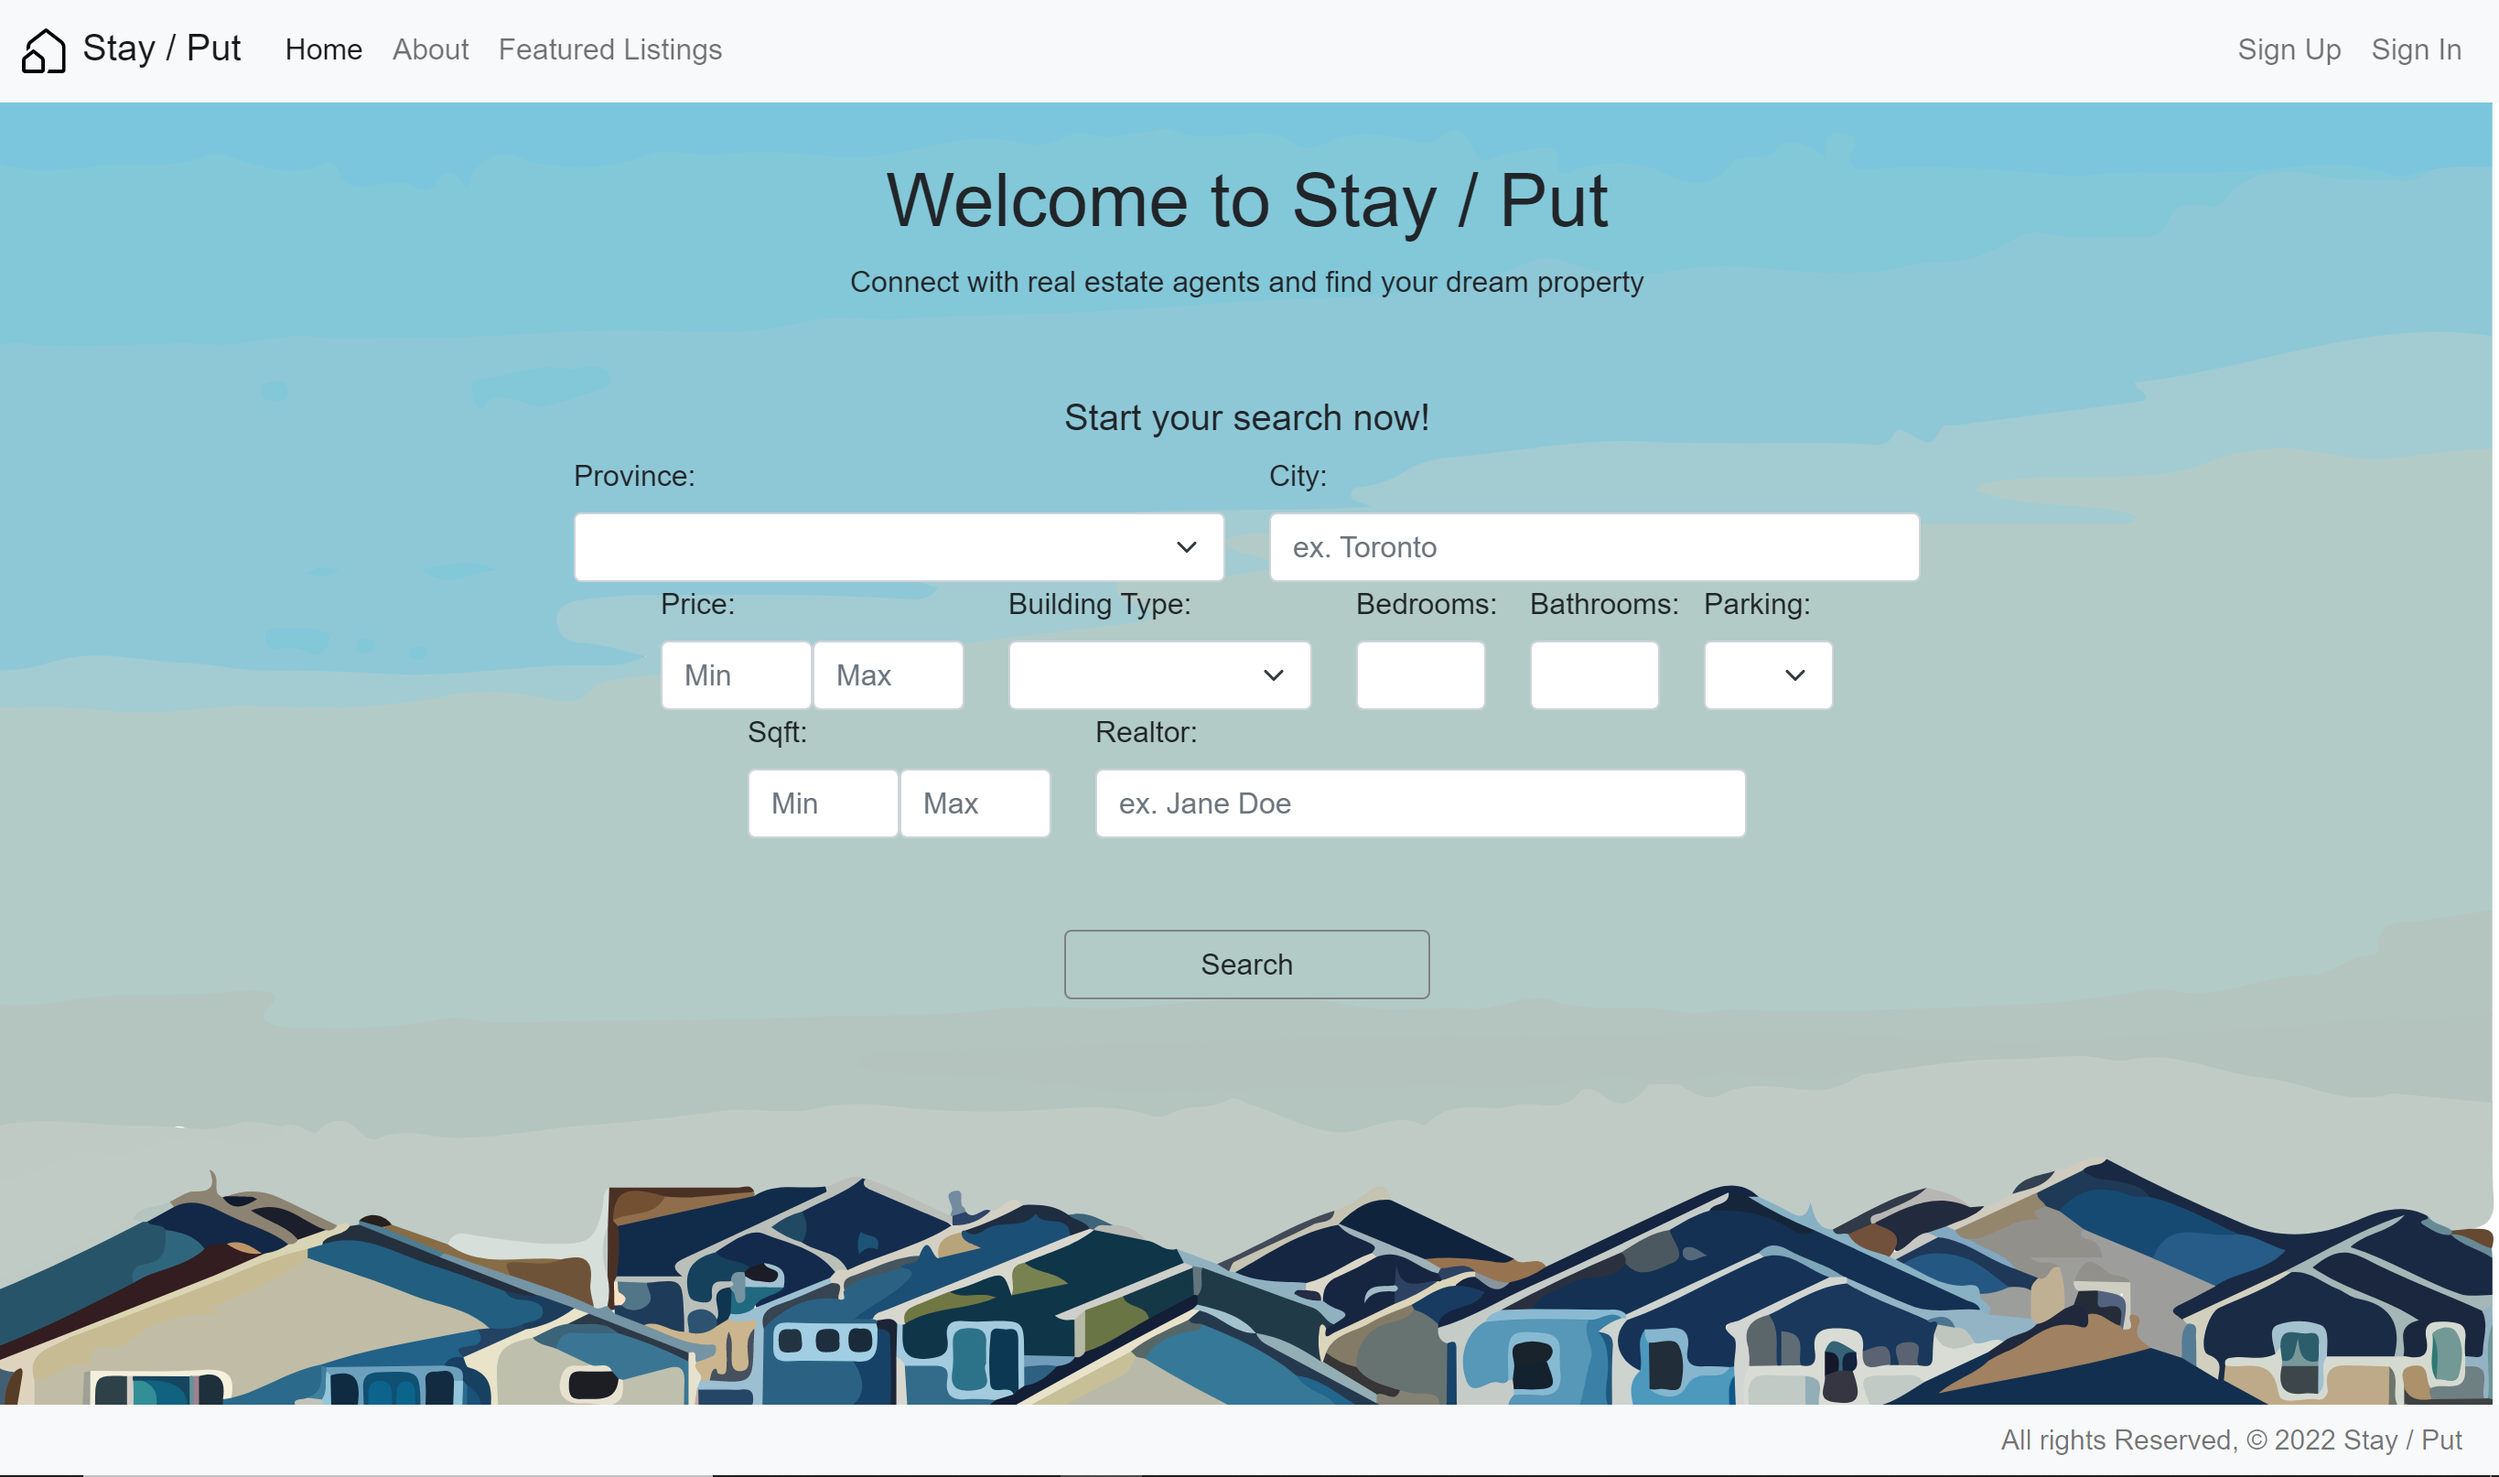
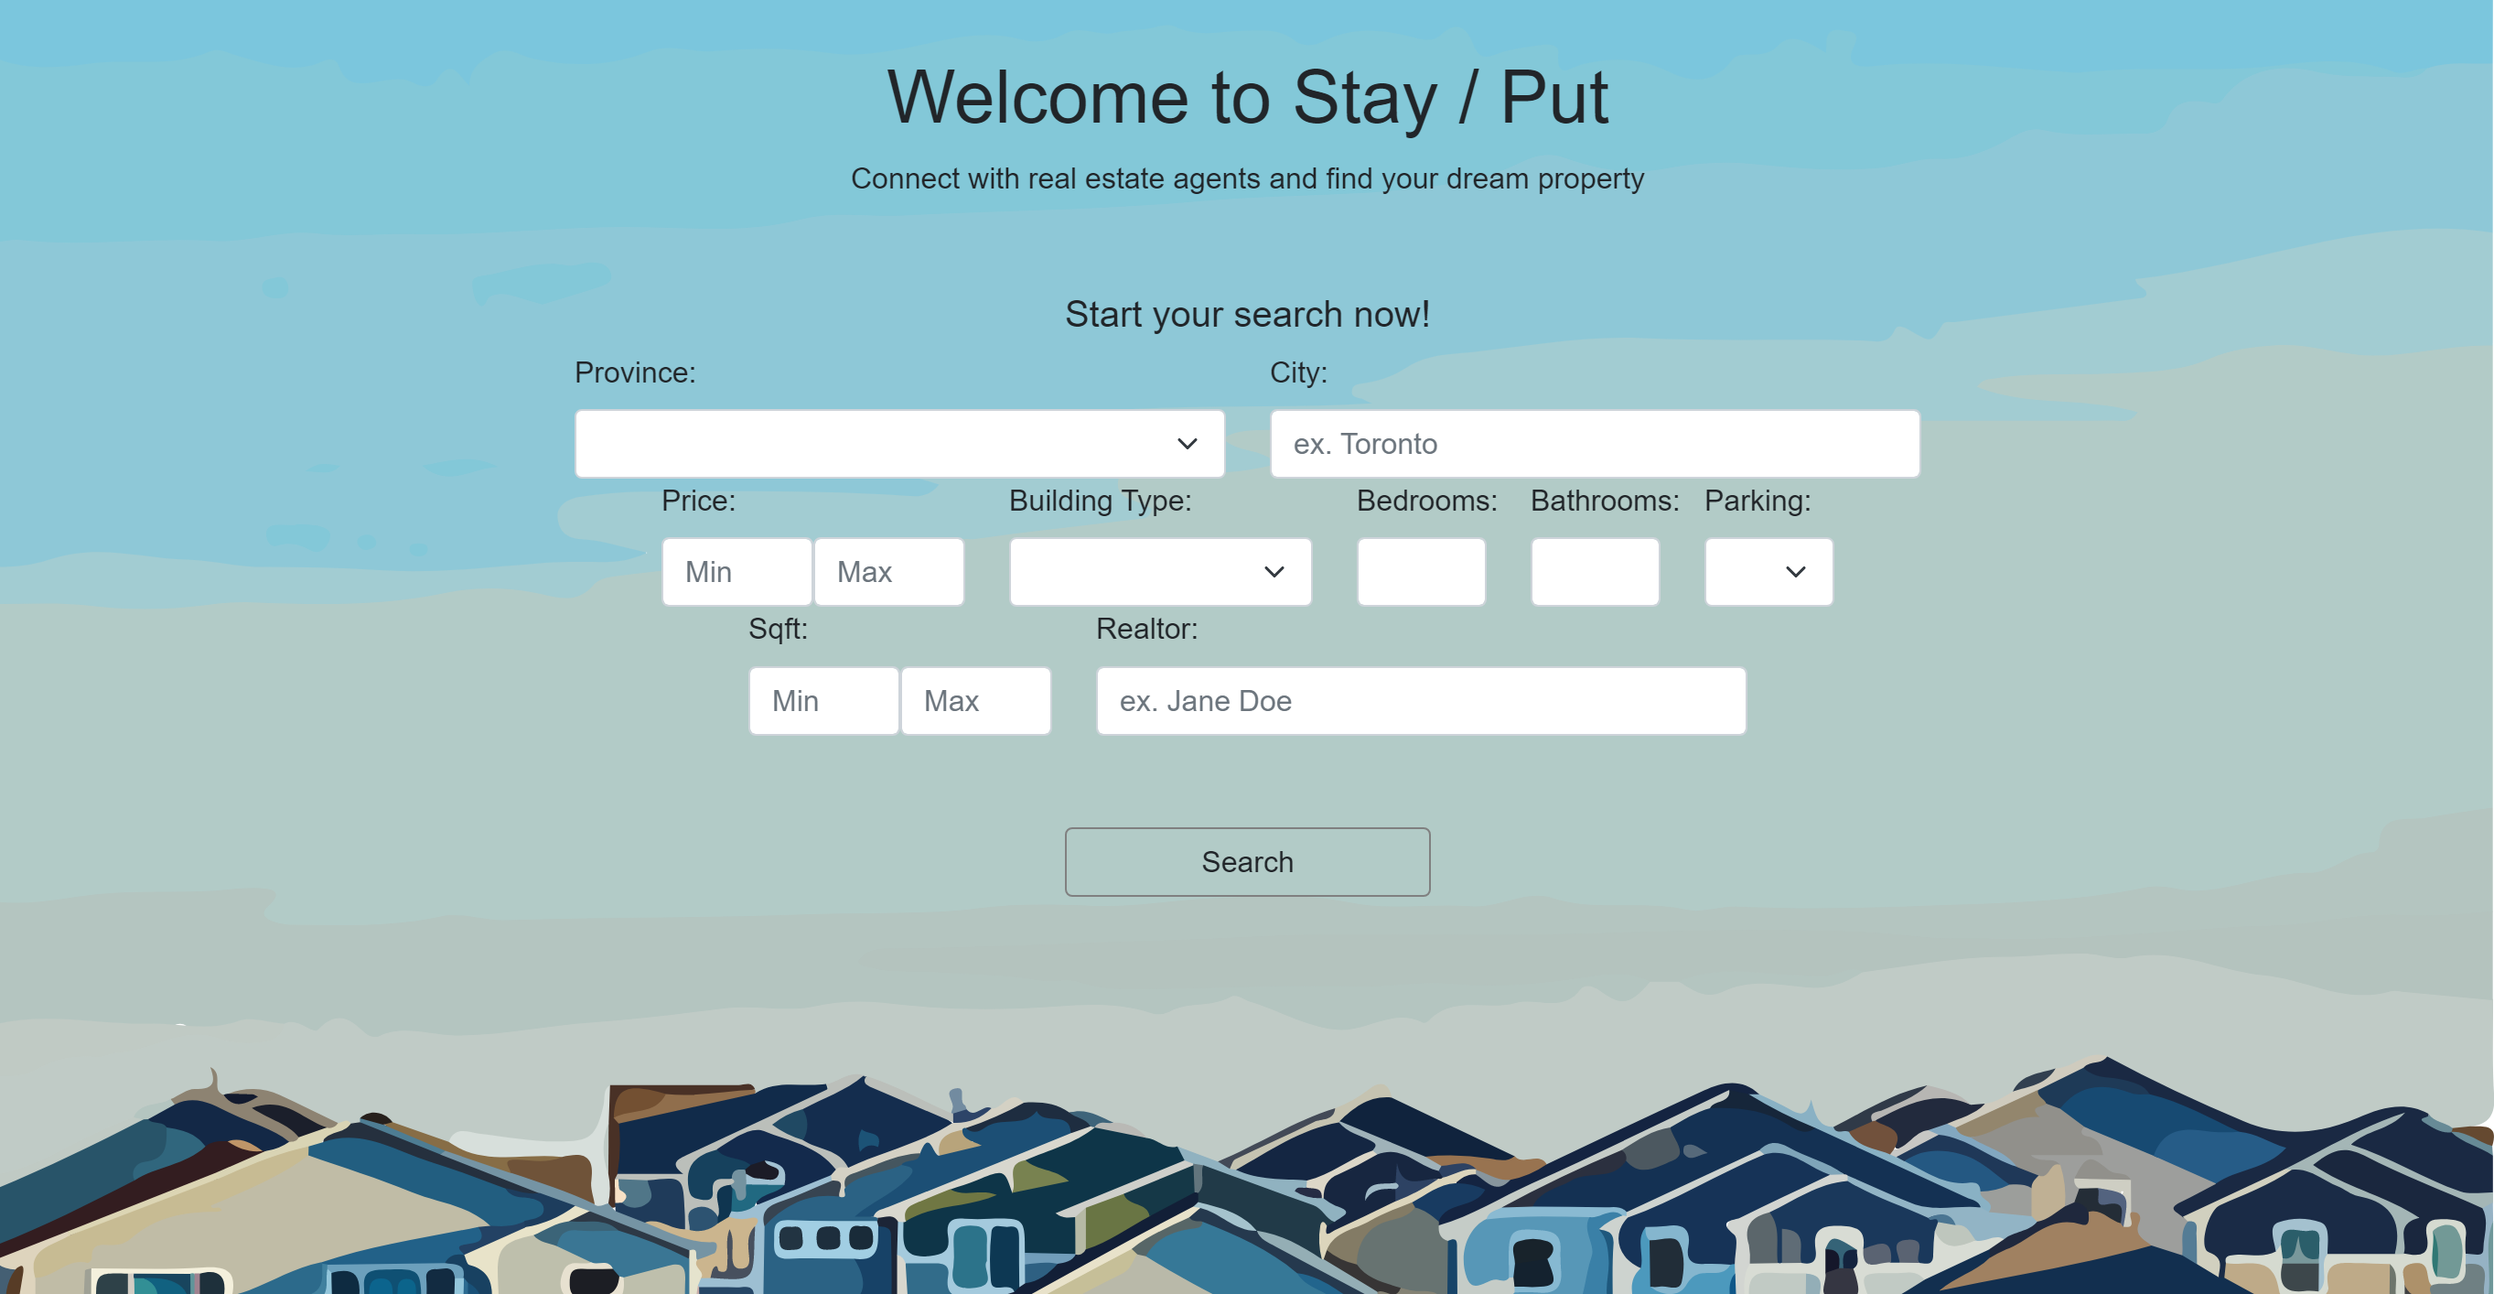
Responsive navbar

diff --git a/src/components/Projects/Projects.tsx b/src/components/Projects/Projects.tsx
@@ -1,4 +1,3 @@
-//// @ts-nocheck
 import React, { useState, useEffect } from 'react';
 import Loader from 'react-loaders';
 import AnimatedLetters from '../AnimatedLetters/AnimatedLetters';
@@ -53,7 +52,9 @@ export default function Projects() {
 						<div className="swiper-content">
 							<a href="https://stay-put.herokuapp.com/" target="blank">
 								<img src={StayPutImg} className="webpageImg" />
-								<p>Stay / Put lets renters and buyers quickly connect with realtors to discuss properties for rent/sale! Developed with Python/Django/PostgreSQL/AWS.</p>
+								<p>
+									<span style={{ fontWeight: 600 }}>Stay / Put</span> lets renters and buyers quickly connect with realtors to discuss properties for rent/sale! Developed with Python/Django/PostgreSQL/AWS.
+								</p>
 							</a>
 						</div>
 					</SwiperSlide>
@@ -62,7 +63,9 @@ export default function Projects() {
 							<a href="https://puny-swap-final.herokuapp.com/" target="blank">
 								<img src={PunySwapImg} id="psImg" />
 
-								<p>Puny-Swap is a UniSwap clone, providing sending and swapping services for crypto-currency. This project uses the full MERN stack, Solidity, Moralis, and RESTful APIs.</p>
+								<p>
+									<span style={{ fontWeight: 600 }}>Puny-Swap</span> is a UniSwap clone, providing sending and swapping services for crypto-currency. This project uses the full MERN stack, Solidity, Moralis, and RESTful APIs.
+								</p>
 							</a>
 						</div>
 					</SwiperSlide>
@@ -70,7 +73,9 @@ export default function Projects() {
 						<div className="swiper-content">
 							<a href="https://reidwids.github.io/Battleship/" target="blank">
 								<img src={BattleshipImg} className="webpageImg" />
-								<p>Battleship! is a single player game where you fight on the open ocean to sink your opponents fleet of warships. Just make sure you sink theirs before they sink yours!</p>
+								<p>
+									<span style={{ fontWeight: 600 }}>Battleship!</span> is a single player game where you fight on the open ocean to sink your opponents fleet of warships. Just make sure you sink theirs before they sink yours!
+								</p>
 							</a>
 						</div>
 					</SwiperSlide>
@@ -78,7 +83,9 @@ export default function Projects() {
 						<div className="swiper-content">
 							<a href="https://stockbox1.herokuapp.com/" target="blank">
 								<img src={StocksBoxImg} id="sbImg" />
-								<p>StockBox lets you build a profile and face off against your friends to see who can build the best investment portfolio! This app was built with NodeJS, Express, MongoDB, and Bootstrap5.</p>
+								<p>
+									<span style={{ fontWeight: 600 }}>StockBox</span> lets you build a profile and face off against your friends to see who can build the best investment portfolio! This app was built with NodeJS, Express, MongoDB, and Bootstrap5.
+								</p>
 							</a>
 						</div>
 					</SwiperSlide>

diff --git a/src/components/Sidebar/Sidebar.scss b/src/components/Sidebar/Sidebar.scss
@@ -5,7 +5,10 @@
 	position: absolute;
 	top: 0;
 	z-index: 3;
-	min-height: 500px;
+	display: flex;
+	justify-content: space-between;
+	flex-direction: column;
+	align-items: center;
 }
 .logo {
 	display: block;
@@ -19,19 +22,11 @@
 		height: auto;
 	}
 }
-// #logoSubtitle {
-// 	width: 100%;
-// 	text-align: center;
-// 	font-size: 13px;
-// 	color: white;
-// 	font-weight: 500;
-// }
 nav {
 	display: block;
 	text-align: center;
-	position: absolute;
 	height: 210px;
-	top: 40%;
+	top: 35%;
 	width: 100%;
 
 	a {
@@ -101,7 +96,6 @@ nav {
 	}
 }
 ul {
-	position: absolute;
 	bottom: 20px;
 	width: 100%;
 	display: block;
@@ -121,5 +115,38 @@ ul {
 				color: #ffd700;
 			}
 		}
+	}
+}
+
+@media screen and (max-width: 830px) {
+	.nav-bar {
+		width: 100%;
+		height: 80px;
+		flex-direction: row;
+		justify-content: space-between;
+	}
+	.logo {
+		margin-left: 20px;
+		margin-top: 2px;
+	}
+	nav {
+		display: flex;
+		align-items: center;
+		justify-content: space-between;
+		margin-left: 30px;
+		width: 40%;
+		a {
+			display: flex;
+			width: 100%;
+			justify-content: center;
+			align-items: center;
+		}
+	}
+	ul {
+		width: 60px;
+		display: flex;
+		flex-direction: row;
+		justify-content: space-between;
+		margin-right: 10px;
 	}
 }

diff --git a/src/components/Layout/Layout.tsx b/src/components/Layout/Layout.tsx
@@ -1,9 +1,12 @@
-import React from 'react';
+import React, { useState, useEffect } from 'react';
 import { Outlet } from 'react-router-dom';
 import Sidebar from '../Sidebar/Sidebar';
 import './Layout.scss';
 
 export default function Layout() {
+	console.log('Width: ', window.innerWidth);
+	console.log('Height: ', window.innerHeight);
+
 	return (
 		<div className="App">
 			<Sidebar></Sidebar>

diff --git a/src/components/Home/Logo/Logo.scss b/src/components/Home/Logo/Logo.scss
@@ -1,5 +1,4 @@
 .logo-container {
-	z-index: 0;
 	width: 400px;
 	height: 609px;
 	position: absolute;
@@ -25,7 +24,7 @@
 		animation: fadeIn1 ease 10s;
 		transition: all 1s linear;
 		transform: rotateZ(20deg);
-		z-index: 2;
+		z-index: 1;
 	}
 	@keyframes fadeIn1 {
 		0% {

diff --git a/src/components/Projects/Projects.scss b/src/components/Projects/Projects.scss
@@ -21,11 +21,11 @@
 	border-radius: 10px;
 	background-color: white;
 	box-shadow: 0 15px 50px rgba(0, 0, 0, 0.2);
-	filter: blur(2px);
+	filter: blur(10px);
 }
 .swiper-slide-next,
 .swiper-slide-prev {
-	opacity: 0.7;
+	opacity: 0.5;
 }
 .swiper-content {
 	width: 90%;
